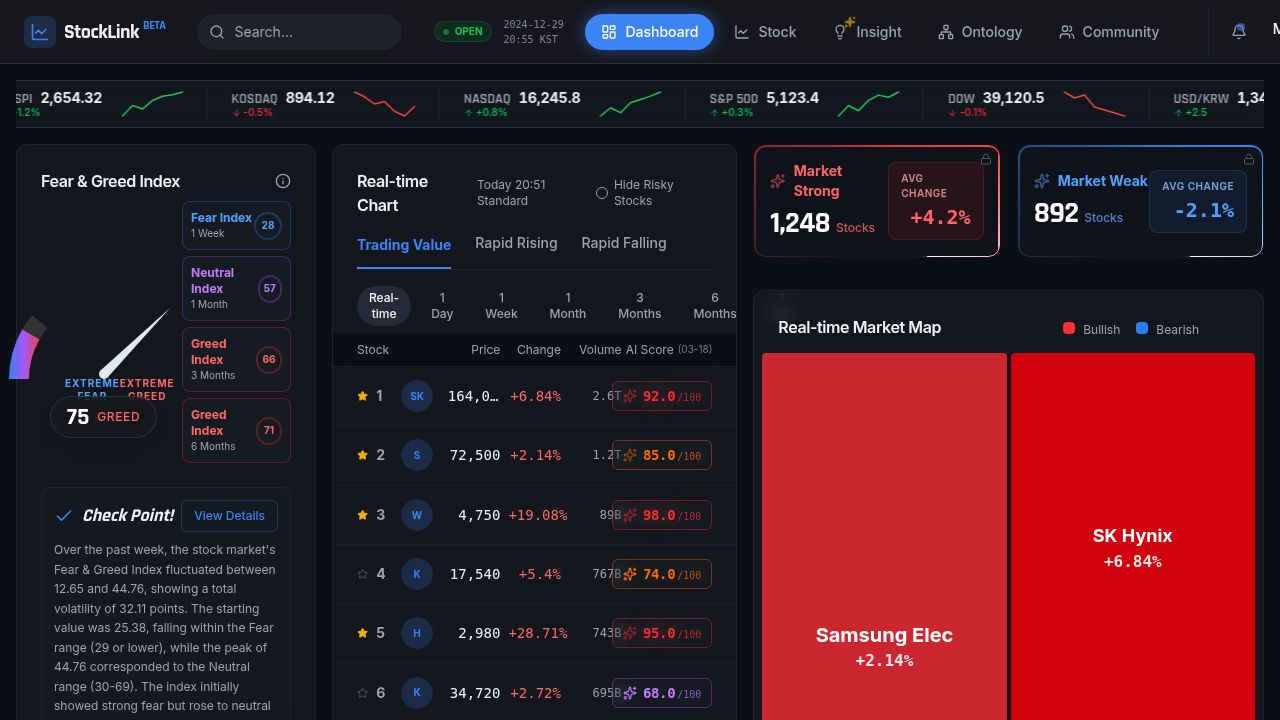
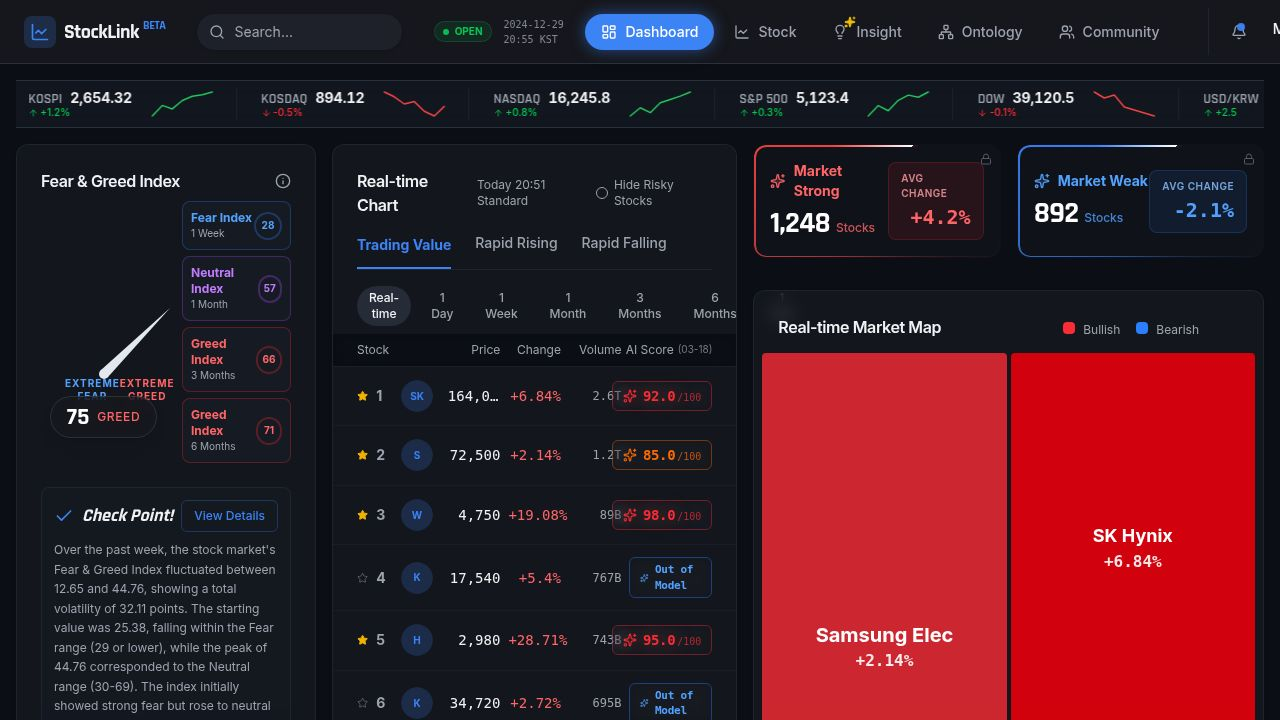
Update AI score display for non-applicable stocks
Modify `RealTimeStockList.tsx` to display "Out of Model" for stocks with an AI score of 0, maintaining theme and icon consistency.

Replit-Commit-Author: Agent
Replit-Commit-Session-Id: 5936f5ac-f120-47b5-8aca-4ce493902bd6
Replit-Commit-Checkpoint-Type: full_checkpoint
Replit-Commit-Event-Id: 22a49238-b784-488e-8ec4-5810d5391d47
Replit-Commit-Screenshot-Url: https://storage.googleapis.com/screenshot-production-us-central1/a443e579-0eec-4716-9714-1f3f39332136/5936f5ac-f120-47b5-8aca-4ce493902bd6/530Lmhe
Replit-Helium-Checkpoint-Created: true

diff --git a/client/src/components/dashboard/RealTimeStockList.tsx b/client/src/components/dashboard/RealTimeStockList.tsx
@@ -7,12 +7,6 @@ import { cn } from "@/lib/utils";
 import { Avatar, AvatarFallback, AvatarImage } from "@/components/ui/avatar";
 
 const getScoreClasses = (score: number) => {
-  // Not applicable (e.g. ETF, Leverage)
-  if (score === 0) return {
-    badge: "border-gray-500/30 bg-transparent",
-    text: "text-gray-400",
-    muted: "text-gray-500/50"
-  };
   // 90~100 (9.0~10.0): Red
   if (score >= 9.0) return {
     badge: "border-red-500/40 bg-transparent",
@@ -152,34 +146,36 @@ export default function RealTimeStockList() {
 
                      {/* AI Score Column */}
                      <div className="col-span-4 md:col-span-3 flex items-center justify-end">
-                        {stock.aiScore === 0 ? (
-                           <div className="flex items-center gap-1.5 px-2.5 py-1 rounded-md border border-gray-500/20 bg-gray-500/5 backdrop-blur-sm">
-                              <span className="text-[11px] font-medium text-gray-500">산정제외</span>
-                           </div>
-                        ) : (
-                           <div 
+                        <div 
+                           className={cn(
+                              "flex items-center gap-1.5 px-2.5 py-1 rounded-md border backdrop-blur-sm transition-all hover:brightness-110",
+                              getScoreClasses(stock.aiScore).badge
+                           )}
+                        >
+                           <Sparkles 
                               className={cn(
-                                 "flex items-center gap-1.5 px-2.5 py-1 rounded-md border backdrop-blur-sm transition-all hover:brightness-110",
-                                 getScoreClasses(stock.aiScore).badge
-                              )}
-                           >
-                              <Sparkles 
-                                 className={cn(
-                                    "w-3.5 h-3.5",
-                                    stock.aiScore >= 8.5 && "animate-pulse",
-                                    getScoreClasses(stock.aiScore).text
-                                 )} 
-                              />
-                              <div className="font-mono flex items-baseline">
-                                 <span 
-                                    className={cn("font-bold text-[14px] tracking-tight", getScoreClasses(stock.aiScore).text)}
-                                 >
-                                    {(stock.aiScore * 10).toFixed(1)}
+                                 "w-3.5 h-3.5",
+                                 stock.aiScore >= 8.5 && "animate-pulse",
+                                 getScoreClasses(stock.aiScore).text
+                              )} 
+                           />
+                           <div className="font-mono flex items-baseline">
+                              {stock.aiScore === 0 ? (
+                                 <span className={cn("font-bold text-[11px] tracking-tight", getScoreClasses(stock.aiScore).text)}>
+                                    Out of Model
                                  </span>
-                                 <span className={cn("text-[10px] ml-0.5", getScoreClasses(stock.aiScore).muted)}>/100</span>
-                              </div>
+                              ) : (
+                                 <>
+                                    <span 
+                                       className={cn("font-bold text-[14px] tracking-tight", getScoreClasses(stock.aiScore).text)}
+                                    >
+                                       {(stock.aiScore * 10).toFixed(1)}
+                                    </span>
+                                    <span className={cn("text-[10px] ml-0.5", getScoreClasses(stock.aiScore).muted)}>/100</span>
+                                 </>
+                              )}
                            </div>
-                        )}
+                        </div>
                      </div>
                   </div>
                ))}
